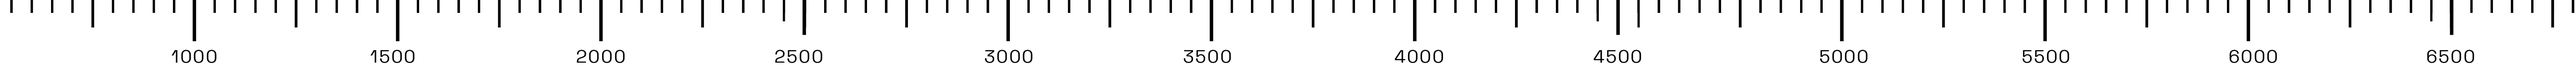
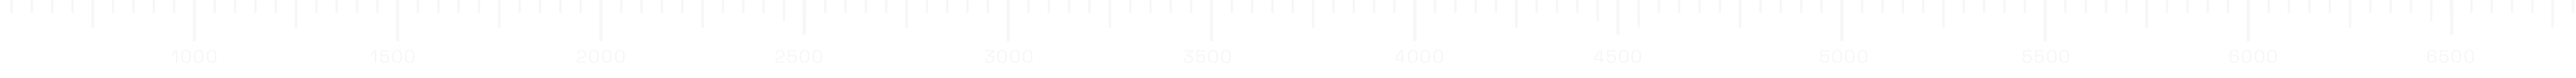
body margin edited & cursor trial

diff --git a/index.html b/index.html
@@ -42,6 +42,29 @@
   <img class="stickyruler" src="assets/ruler.png" alt="header scale ruler" width="100%">
 
 
+
+<!-- TOGGLE FILTER BUTTONS -->
+
+<div class="media">
+    
+  <a href="images.html"><span id= "imageicon" class="material-symbols-outlined">
+    photo_camera
+    </span>
+  </a>
+
+  <a href="articles.html">  <span id= "videoicon" class="material-symbols-outlined">
+    video_library
+    </span>
+  </a>
+
+  <a href="videos.html">   <span id= "articleicon" class="material-symbols-outlined">
+    feed
+    </span>
+  </a>
+  
+</div>
+
+
   <!-- HEADER, SUB-HEADER & CHANNEL INFO -->
   <section class="content">
     <h2 class = "channel-title"></h2>
@@ -60,20 +83,6 @@
       see original page here ☞
     </a>
     </section>
-
-
-<!-- TOGGLE FILTER BUTTONS -->
-<div class= "symbols">
-  <span class="material-symbols-outlined">
-    photo_camera
-    </span>
-  <span class="material-symbols-outlined">
-    video_library
-    </span>
-    <span class="material-symbols-outlined">
-      feed
-      </span>
-</div>
 
 
  <!-- ALL CONTENT -->
@@ -189,7 +198,8 @@
 </ul>
 </section>
  
-
+<div class="cursor">
+</div>
     
 </body>
 </html>

diff --git a/assets/stylesheet.css b/assets/stylesheet.css
@@ -5,7 +5,7 @@ html, body {
 
 body {
   margin: auto;
-  width: 77%;
+  width: 96%;
 }
 
 .stickyruler {
@@ -13,7 +13,7 @@ body {
   top: 0;
   left:0;
   z-index: 999;
-  opacity: 100%;
+  opacity: 50%;
   width: 100%;
   aspect-ratio: 0 /0;
   width: 100%;
@@ -97,7 +97,7 @@ body {
     letter-spacing: 0px;
     word-spacing: 1px;
     line-height: 23px;
-    color: rgb(255, 255, 255);
+    color: rgb(243, 242, 236);
     text-align: left;
     margin-bottom: 2em;
   }
@@ -265,7 +265,7 @@ p{
       img:hover {
         filter: none;
         transition-duration: 2s;
-        cursor:pointer;
+        cursor: cell;
       }
 
       .symbols {
@@ -280,3 +280,19 @@ p{
         font-size: 44px;
         color: #88b0ab;
       }
+
+      .media{
+        display: flex;
+          flex-wrap: wrap;
+        flex-direction: row;
+        justify-content: space-between;
+          align-items: center;
+          position: sticky;
+          top: 0;
+          color: rgb(145, 145, 145);
+          margin-top: 20px;
+          padding-top: 20px;
+          padding-bottom: 20px;
+      }
+      
+      

diff --git a/articles.html b/articles.html
@@ -63,6 +63,17 @@
 
 
 <!-- TOGGLE FILTER BUTTONS -->
+<div class= "symbols">
+<span id= "imageicon" class="material-symbols-outlined">
+    photo_camera
+    </span>
+  <span id= "videoicon" class="material-symbols-outlined">
+    video_library
+    </span>
+    <span id= "articleicon" class="material-symbols-outlined">
+      feed
+      </span>
+</div>
 
 <div class="media">
     
@@ -86,8 +97,15 @@
 
  <!-- ALL CONTENT -->
  <ul class="
+ audio-embed-blocks 
+ audio-file-blocks 
  image-blocks 
- ">
+ embed-blocks 
+ link-blocks 
+ pdf-blocks 
+ text-blocks 
+ video-embed-blocks 
+ video-file-blocks">
 </ul>
 
 

diff --git a/videos.html b/videos.html
@@ -63,6 +63,17 @@
 
 
 <!-- TOGGLE FILTER BUTTONS -->
+<div class= "symbols">
+<span id= "imageicon" class="material-symbols-outlined">
+    photo_camera
+    </span>
+  <span id= "videoicon" class="material-symbols-outlined">
+    video_library
+    </span>
+    <span id= "articleicon" class="material-symbols-outlined">
+      feed
+      </span>
+</div>
 
 <div class="media">
     
@@ -86,8 +97,15 @@
 
  <!-- ALL CONTENT -->
  <ul class="
+ audio-embed-blocks 
+ audio-file-blocks 
  image-blocks 
- ">
+ embed-blocks 
+ link-blocks 
+ pdf-blocks 
+ text-blocks 
+ video-embed-blocks 
+ video-file-blocks">
 </ul>
 
 

diff --git a/script.js b/script.js
@@ -33,7 +33,7 @@ function myFunction() {
   }
 }
 
-imageButton.onclick = function() {
+imageButton.onClick = function() {
   console.log('images')
   //add all images
   body.appendChild(allImages)
@@ -42,7 +42,7 @@ imageButton.onclick = function() {
   };
 
 
-linksButton..onclick = function() {
+linksButton.onClick = function() {
   console.log('links')
   //remove all links
   body.appendChild(allLinks)
